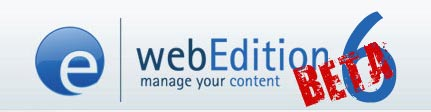
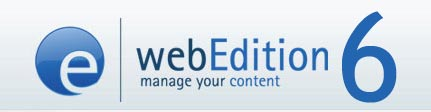
Version 6.0.0.0

Changed region(s): [[0.6636, 0.375, 0.935, 0.9643]]

diff --git a/webEdition/index.html b/webEdition/index.html
@@ -36,6 +36,6 @@
 	</head>
 
 	<body>
-		<h1>webEdition 5.9.0.4</h1>
+		<h1>webEdition 6.0.0.0</h1>
 	</body>
 </html>

diff --git a/webEdition/liveUpdate/conf/conf.inc.php b/webEdition/liveUpdate/conf/conf.inc.php
@@ -24,8 +24,6 @@
  * Liveupdate are set
  */
 
-$_REQUEST["betaVersion"] = 5903;
-
 // include files -> mainly stored in the application
 define('LIVEUPDATE_LANGUAGE', $GLOBALS['WE_LANGUAGE']);
 //define('LIVEUPDATE_LANGUAGE_DIR', $_SERVER['DOCUMENT_ROOT'] . '/webEdition/liveUpdate/includes/language/' . LIVEUPDATE_LANGUAGE . '/');

diff --git a/webEdition/we/include/we_version.php b/webEdition/we/include/we_version.php
@@ -1,3 +1,3 @@
 <?php
-define("WE_VERSION", "5.9.0.4");
+define("WE_VERSION", "6.0.0.0");
 ?>
